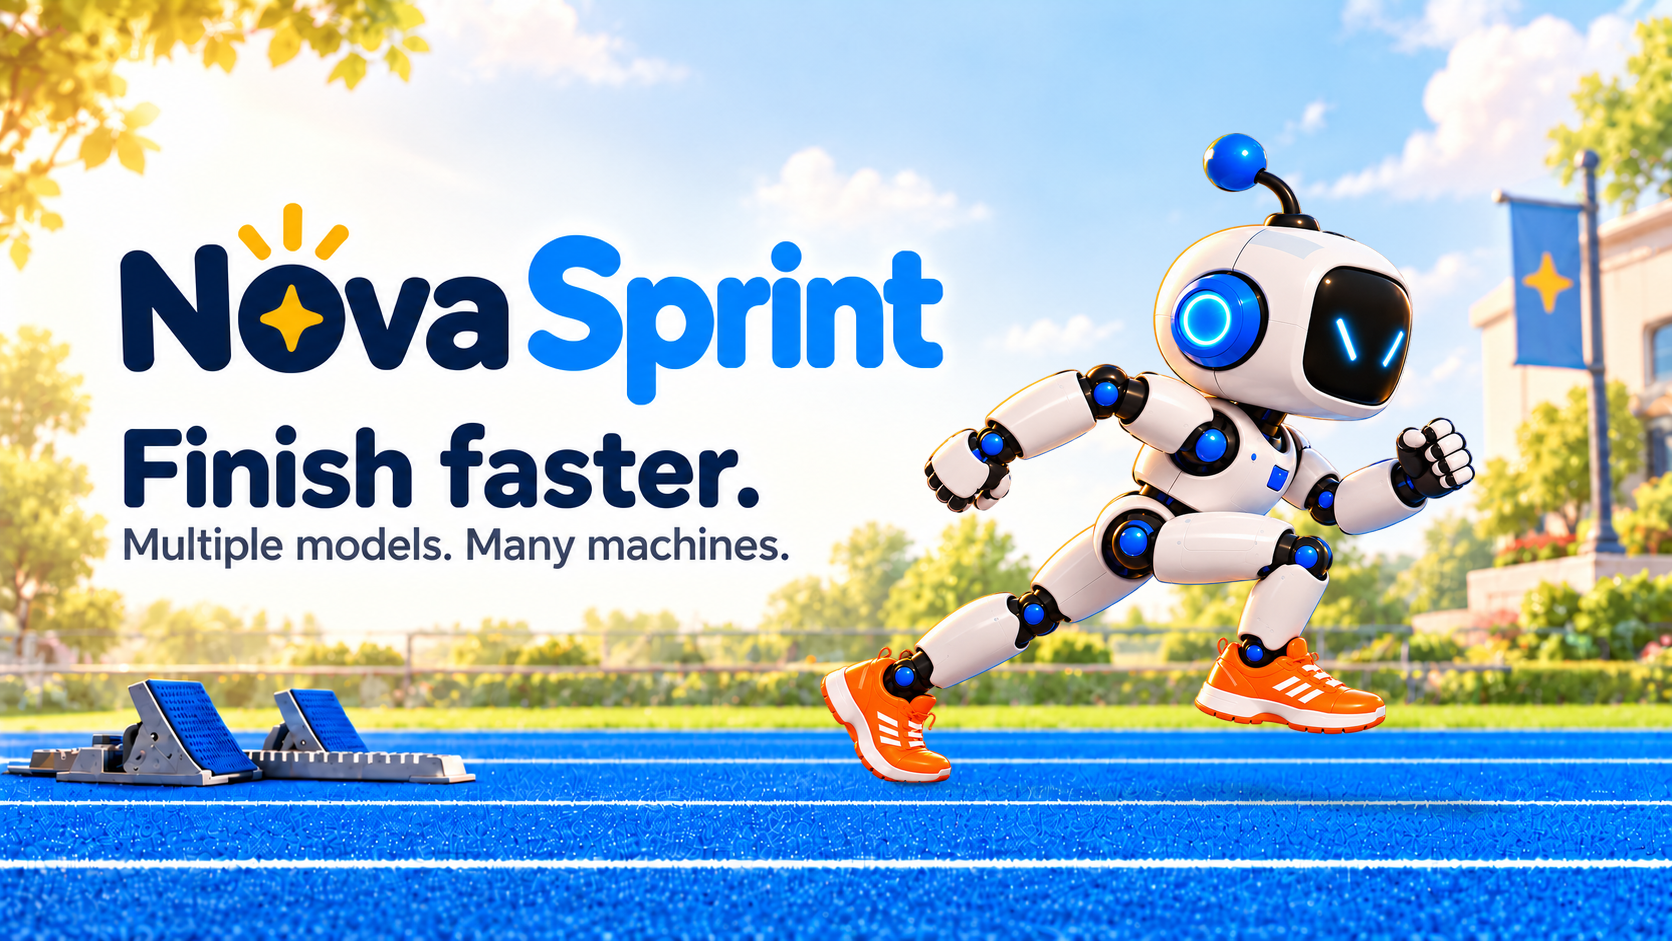
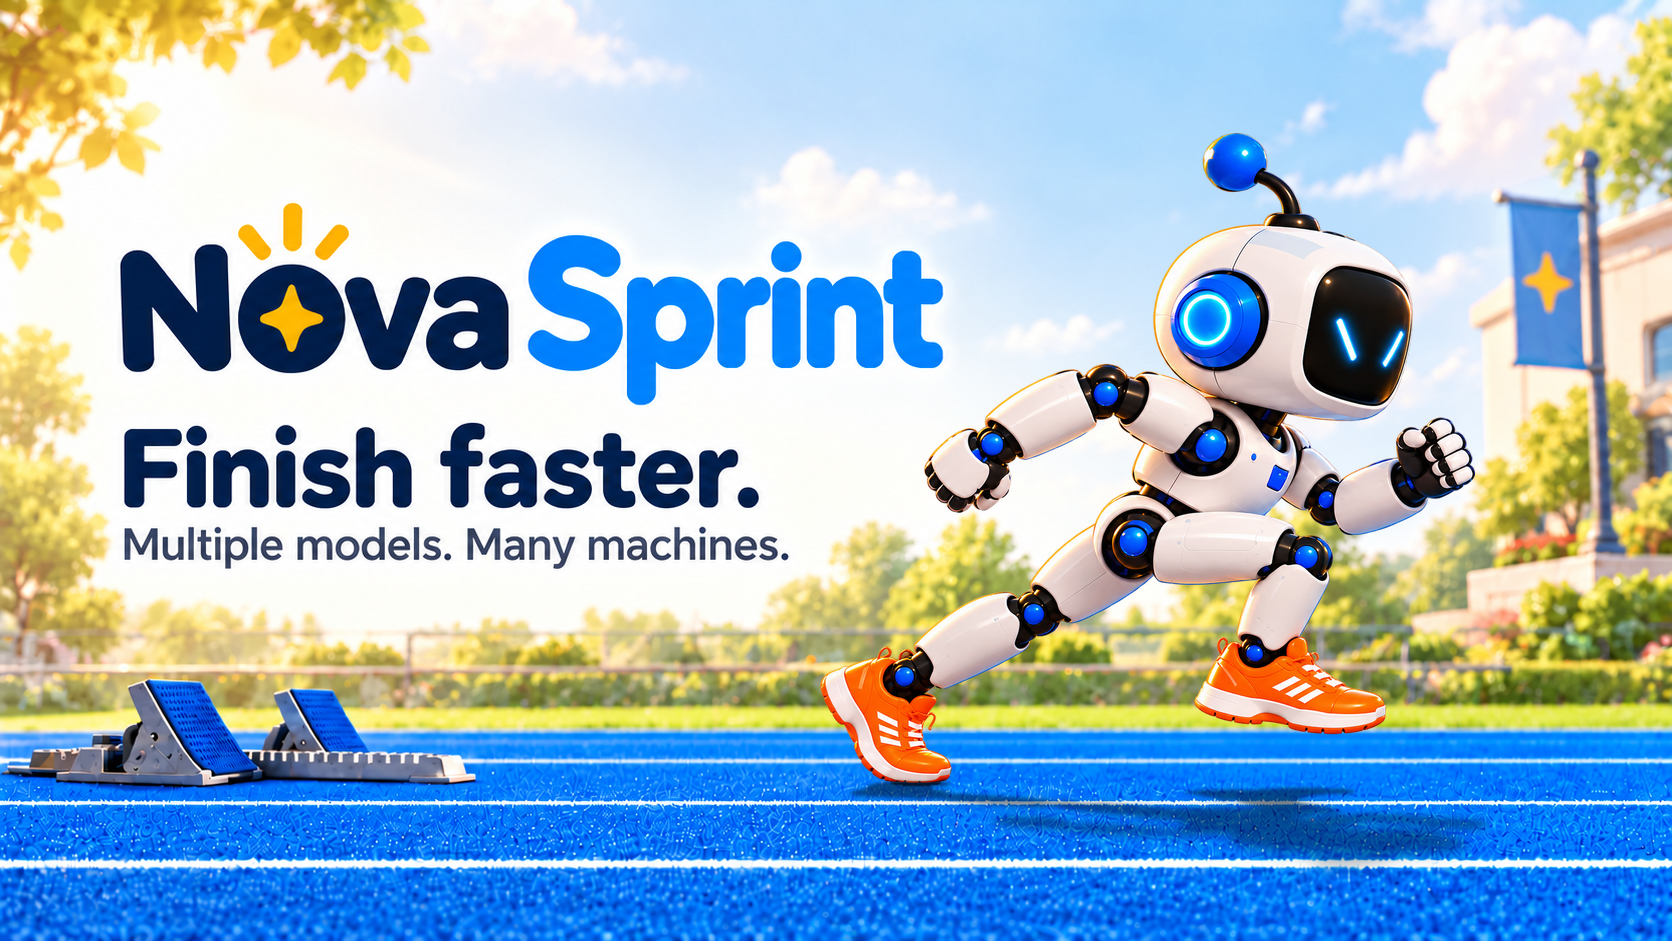
Add stacked dashboard badge and rebuild separate ground shadows

Changed region(s): [[0.4976, 0.8321, 0.9019, 0.9245]]

diff --git a/brand/fleet/layered/compose.py b/brand/fleet/layered/compose.py
@@ -33,21 +33,13 @@ top = ground_y - toe_y
 cx = left + toe_x
 cy = ground_y
 
-# Project the actual silhouette onto the horizontal track from upper-left light.
-sx, shear, depth = .72, .50, .055
-inverse = (1/sx, -shear/(sx*depth), toe_x-cx/sx+shear*cy/(sx*depth),
-           0, -1/depth, toe_y+cy/depth)
-projected = robot.getchannel('A').transform(background.size, Image.Transform.AFFINE,
-                                           inverse, Image.Resampling.BICUBIC)
-projected = projected.filter(ImageFilter.GaussianBlur(3.5)).point(lambda v: round(v*.27))
-shadow = Image.new('RGBA', background.size, (8, 23, 49, 0))
-shadow.putalpha(projected)
-# Tight grounded contact, exactly beneath the rear shoe's opaque toe edge.
-contact = Image.new('RGBA', background.size)
-d = ImageDraw.Draw(contact)
-d.ellipse((cx-22, cy-3, cx+24, cy+3), fill=(5, 17, 37, 125))
-contact = contact.filter(ImageFilter.GaussianBlur(1.15))
-shadow = Image.alpha_composite(shadow, contact)
+# Build independent cast and contact layers, then composite them below the robot.
+from render_shadow import render_shadow
+cast, contact = render_shadow(robot.getchannel('A'), background.size,
+                              (toe_x, toe_y), (cx, cy))
+cast.save(ROOT / 'cast-shadow.png')
+contact.save(ROOT / 'contact-shadow.png')
+shadow = Image.alpha_composite(cast, contact)
 placed = Image.new('RGBA', background.size)
 placed.alpha_composite(robot, (left, top))
 composite = Image.alpha_composite(Image.alpha_composite(background, shadow), placed)

diff --git a/brand/fleet/layered/render_shadow.py b/brand/fleet/layered/render_shadow.py
@@ -1,0 +1,27 @@
+"""Render independent ground shadows from a character alpha and planted-toe anchor."""
+from PIL import Image, ImageDraw, ImageFilter
+import numpy as np
+
+def render_shadow(alpha, size, toe, ground):
+    tx, ty = toe
+    cx, cy = ground
+    # Ground projection: sun from upper left; shadow extends down/right.
+    sx, shear, depth = .90, .22, .13
+    inverse = (1/sx, -shear/(sx*depth), tx-cx/sx+shear*cy/(sx*depth),
+               0, -1/depth, ty+cy/depth)
+    projected = alpha.transform(size, Image.Transform.AFFINE, inverse, Image.Resampling.BICUBIC)
+    # The sole stays sharp; higher surfaces cast progressively softer shadows.
+    yy = np.arange(size[1], dtype=float)[:, None]
+    distance = np.clip((yy-cy)/(depth*ty), 0, 1)
+    weights = [np.clip(1-distance*2,0,1), 1-abs(distance*2-1), np.clip(distance*2-1,0,1)]
+    softness = [1.5, 4.0, 7.0]
+    mask = sum(np.asarray(projected.filter(ImageFilter.GaussianBlur(radius)),dtype=float)*weight
+               for radius,weight in zip(softness,weights))
+    mask *= .56-.16*distance
+    cast = Image.new('RGBA',size,(4,14,31,0))
+    cast.putalpha(Image.fromarray(np.clip(mask,0,255).astype('uint8')))
+    contact = Image.new('RGBA',size)
+    d = ImageDraw.Draw(contact)
+    d.ellipse((cx-23,cy-2,cx+26,cy+3),fill=(2,8,18,190))
+    contact=contact.filter(ImageFilter.GaussianBlur(.8))
+    return cast,contact

diff --git a/brand/fleet/layered/README.md b/brand/fleet/layered/README.md
@@ -6,7 +6,10 @@ Working candidate, October 11, 2026; not a claim of final approval.
 - `robot-source.png`: separate transparent robot generated from the same reference, with a rear-foot push-off pose, white/blue shell, orange shoes and two diagonal cyan eye strokes. Original lossless output.
 - `robot-trimmed.png`: trimmed and scaled character used by the compositor.
 - `robot-placed.png`: character on a full-size transparent canvas.
-- `shadow.png`: projected silhouette and tight rear-toe contact shadow, on transparency.
+- `cast-shadow.png`: independently rendered projected silhouette, softened with distance from the ground.
+- `contact-shadow.png`: tight rear-toe contact occlusion.
+- `shadow.png`: combined transparent shadow layer.
+- `render_shadow.py`: separate cast/contact shadow renderer.
 - `composite.png`: finished lossless composite.
 - `placement.json`: exact placement, source hashes and background preservation check.
 

diff --git a/brand/fleet/dashboard/README.md b/brand/fleet/dashboard/README.md
@@ -1,0 +1,12 @@
+# Dashboard badge candidate
+
+![Nova Sprint square badge](nova-sprint-square.png)
+
+Generated October 11, 2026 with the built-in OpenAI image tool, referencing
+`brand/wordmark.png`. Original lossless PNG with transparent outer corners.
+Nova is stacked above Sprint on a dark charcoal rounded square. The letters
+and gold rays slightly overlap the tile boundary. Nova uses white for contrast
+on the dashboard; Sprint retains the family blue and the star retains gold.
+
+This is a replacement icon asset for the dashboard's top-left brand image.
+It has not been installed in the running dashboard.
